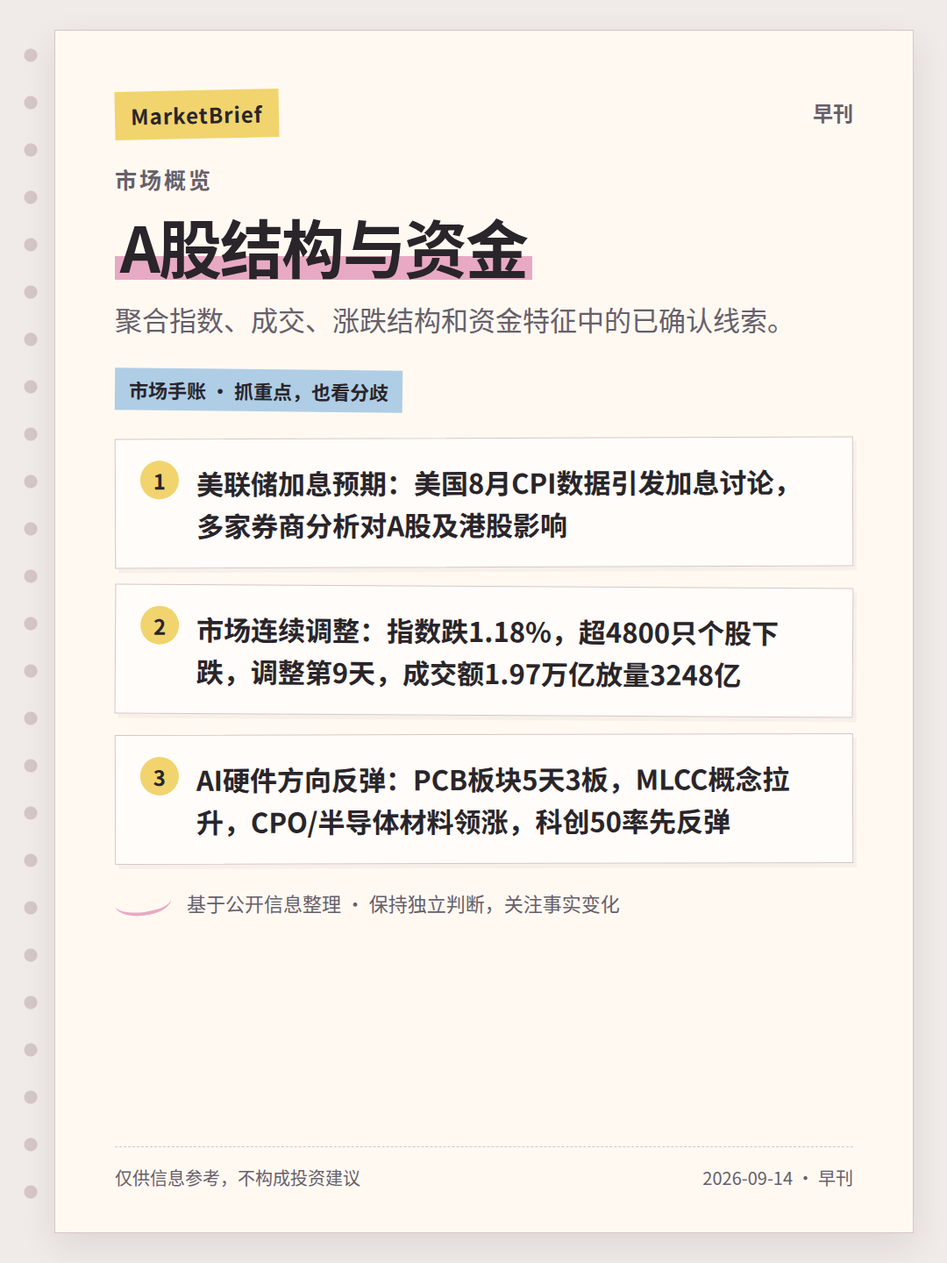
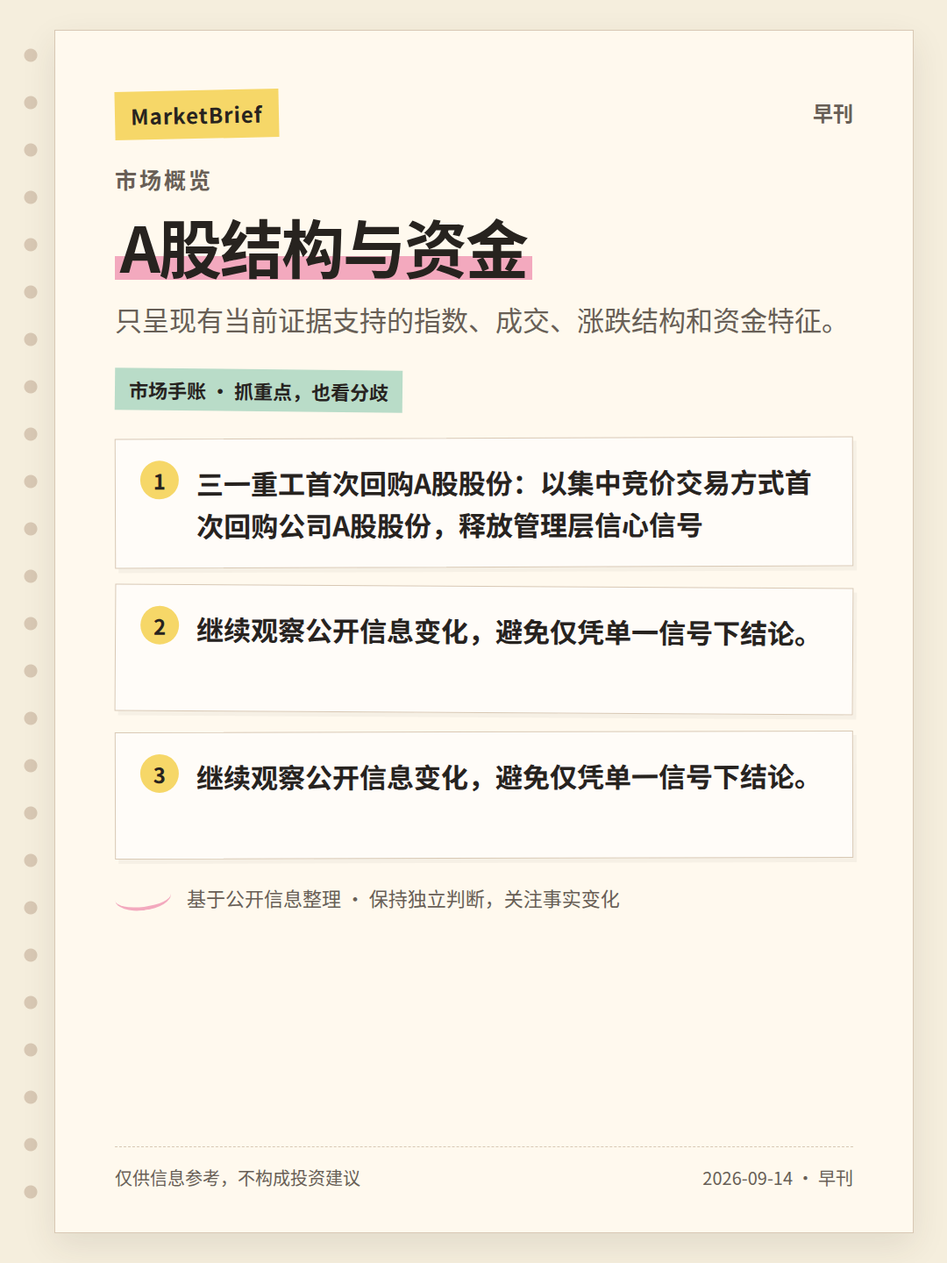
MarketBrief: publish dated edition

diff --git a/output/marketbrief/2026-09-14/am/2026-09-14-am-01.html b/output/marketbrief/2026-09-14/am/2026-09-14-am-01.html
@@ -1,33 +1,33 @@
 <!doctype html>
 <html lang="zh-CN"><head><meta charset="utf-8"><style>
-*{box-sizing:border-box}html,body{margin:0;width:1080px;height:1440px;background:#F0EAE8;color:#29252A;font-family:'Noto Sans CJK SC','Microsoft YaHei',sans-serif}
-body:before{content:'';position:absolute;left:24px;top:36px;bottom:36px;width:22px;background:radial-gradient(circle,#D5C6C7 0 7px,transparent 8px) center top/22px 54px repeat-y}
-main{position:relative;margin:34px 38px 34px 62px;width:980px;height:1372px;padding:68px 68px 52px;background:#FFF9F2;border:1px solid #D5C6C7;box-shadow:0 14px 36px rgba(58,47,39,.10);overflow:hidden}
+*{box-sizing:border-box}html,body{margin:0;width:1080px;height:1440px;background:#F5EEDD;color:#27231F;font-family:'Noto Sans CJK SC','Microsoft YaHei',sans-serif}
+body:before{content:'';position:absolute;left:24px;top:36px;bottom:36px;width:22px;background:radial-gradient(circle,#D8C8B4 0 7px,transparent 8px) center top/22px 54px repeat-y}
+main{position:relative;margin:34px 38px 34px 62px;width:980px;height:1372px;padding:68px 68px 52px;background:#FFF9EE;border:1px solid #D8C8B4;box-shadow:0 14px 36px rgba(58,47,39,.10);overflow:hidden}
 main:after{content:none}
 .top{position:relative;z-index:1;display:flex;justify-content:space-between;align-items:flex-start;margin-bottom:28px}
-.tape{display:inline-block;padding:10px 18px;background:#F1D46D;transform:rotate(-1.2deg);font-size:24px;font-weight:800;letter-spacing:1px}
-.edition{font-size:23px;font-weight:700;color:#66606A;padding-top:8px}
-.kicker{position:relative;z-index:1;font-size:25px;font-weight:800;letter-spacing:3px;color:#66606A;margin-bottom:18px}
+.tape{display:inline-block;padding:10px 18px;background:#F6D768;transform:rotate(-1.2deg);font-size:24px;font-weight:800;letter-spacing:1px}
+.edition{font-size:23px;font-weight:700;color:#685F56;padding-top:8px}
+.kicker{position:relative;z-index:1;font-size:25px;font-weight:800;letter-spacing:3px;color:#685F56;margin-bottom:18px}
 h1{position:relative;z-index:1;font-size:72px;line-height:1.12;margin:0 0 20px;font-weight:900;letter-spacing:-2px}
-h1 span{background:linear-gradient(transparent 62%,#E8A9C4 62% 88%,transparent 88%);padding:0 .08em}
-.sub{position:relative;z-index:1;font-size:31px;line-height:1.5;color:#66606A;margin-bottom:34px;max-width:850px}
-.ribbon{position:relative;z-index:1;display:inline-block;padding:8px 16px;margin-bottom:30px;background:#AFCDE5;font-size:22px;font-weight:700;transform:rotate(.6deg)}
+h1 span{background:linear-gradient(transparent 62%,#F3A9BE 62% 88%,transparent 88%);padding:0 .08em}
+.sub{position:relative;z-index:1;font-size:31px;line-height:1.5;color:#685F56;margin-bottom:34px;max-width:850px}
+.ribbon{position:relative;z-index:1;display:inline-block;padding:8px 16px;margin-bottom:30px;background:#B9DCC8;font-size:22px;font-weight:700;transform:rotate(.6deg)}
 .notes{position:relative;z-index:1;display:grid;gap:21px}
-.note{position:relative;min-height:145px;padding:26px 30px 24px 92px;background:rgba(255,255,255,.56);border:1px solid #D5C6C7;box-shadow:4px 5px 0 rgba(0,0,0,.035);transform:rotate(-.2deg)}
+.note{position:relative;min-height:145px;padding:26px 30px 24px 92px;background:rgba(255,255,255,.56);border:1px solid #D8C8B4;box-shadow:4px 5px 0 rgba(0,0,0,.035);transform:rotate(-.2deg)}
 .note:nth-child(2){transform:rotate(.35deg)}.note:nth-child(3){transform:rotate(-.15deg)}
-.note b{position:absolute;left:28px;top:24px;width:44px;height:44px;border-radius:50%;display:grid;place-items:center;background:#F1D46D;font-size:24px}
+.note b{position:absolute;left:28px;top:24px;width:44px;height:44px;border-radius:50%;display:grid;place-items:center;background:#F6D768;font-size:24px}
 .note p{margin:0;font-size:31px;line-height:1.55;font-weight:650}
-.margin{position:relative;z-index:1;margin-top:28px;display:flex;gap:18px;align-items:center;color:#66606A;font-size:22px}
-.sketch{width:64px;height:30px;border-bottom:4px solid #E8A9C4;border-radius:50%;transform:rotate(-7deg)}
-footer{position:absolute;z-index:1;left:68px;right:68px;bottom:48px;border-top:1px dashed #D5C6C7;padding-top:20px;display:flex;justify-content:space-between;gap:20px;color:#66606A;font-size:20px}
+.margin{position:relative;z-index:1;margin-top:28px;display:flex;gap:18px;align-items:center;color:#685F56;font-size:22px}
+.sketch{width:64px;height:30px;border-bottom:4px solid #F3A9BE;border-radius:50%;transform:rotate(-7deg)}
+footer{position:absolute;z-index:1;left:68px;right:68px;bottom:48px;border-top:1px dashed #D8C8B4;padding-top:20px;display:flex;justify-content:space-between;gap:20px;color:#685F56;font-size:20px}
 </style></head>
 <body><main>
 <div class="top"><span class="tape">MarketBrief</span><span class="edition">早刊</span></div>
 <div class="kicker">今日简报</div>
-<h1><span>AI算力与半导体产业链、美联储加息预期成</span></h1>
-<div class="sub">基于7份有效公开信息分析，当前焦点集中在AI算力与半导体产业链、美联储加息预期。以下内容保留事实、研究观点与市场情绪的边界，并对缺失数据保持空缺。</div>
+<h1><span>雪天盐业发行股份、沈鼓集团主板IP成焦点</span></h1>
+<div class="sub">早刊基于4份有效来源分析，当前重点为雪天盐业发行股份、沈鼓集团主板IP。仅保留时效合格的公开信息，事实、研究观点与市场情绪分开呈现。</div>
 <div class="ribbon">市场手账 · 抓重点，也看分歧</div>
-<div class="notes"><section class="note"><b>1</b><p>AI算力与半导体产业链：华为韬定律芯片落地、台积电营收新高、MLCC供给紧张、光博会供不应求、Rubin升级驱动硬件扩散、DeepSeek V4.1发布</p></section><section class="note"><b>2</b><p>美联储加息预期：美国8月CPI数据引发加息讨论，多家券商分析对A股及港股影响</p></section><section class="note"><b>3</b><p>霍尔木兹海峡船只遇袭，美伊外交前景渺茫：UKMTO确认袭击事件，地缘风险持续发酵</p></section></div>
+<div class="notes"><section class="note"><b>1</b><p>雪天盐业发行股份购买资产预案更正：发布更正后预案及更正提示公告，涉及发行股份及支付现金购买资产并募集配套资金暨关联交易</p></section><section class="note"><b>2</b><p>沈鼓集团主板IPO发行完成：首次公开发行股票并在主板上市发行结果公告及招股说明书提示性公告</p></section><section class="note"><b>3</b><p>鸿路钢构签订重大经营协议：公司签订重大经营协议，涉及业务扩张或订单获取</p></section></div>
 <div class="margin"><span class="sketch"></span><span>基于公开信息整理 · 保持独立判断，关注事实变化</span></div>
 <footer><span>仅供信息参考，不构成投资建议</span><span>2026-09-14 · 早刊</span></footer>
 </main></body></html>

diff --git a/output/marketbrief/2026-09-14/am/2026-09-14-am-05.html b/output/marketbrief/2026-09-14/am/2026-09-14-am-05.html
@@ -1,33 +1,33 @@
 <!doctype html>
 <html lang="zh-CN"><head><meta charset="utf-8"><style>
-*{box-sizing:border-box}html,body{margin:0;width:1080px;height:1440px;background:#F0EAE8;color:#29252A;font-family:'Noto Sans CJK SC','Microsoft YaHei',sans-serif}
-body:before{content:'';position:absolute;left:24px;top:36px;bottom:36px;width:22px;background:radial-gradient(circle,#D5C6C7 0 7px,transparent 8px) center top/22px 54px repeat-y}
-main{position:relative;margin:34px 38px 34px 62px;width:980px;height:1372px;padding:68px 68px 52px;background:#FFF9F2;border:1px solid #D5C6C7;box-shadow:0 14px 36px rgba(58,47,39,.10);overflow:hidden}
+*{box-sizing:border-box}html,body{margin:0;width:1080px;height:1440px;background:#F5EEDD;color:#27231F;font-family:'Noto Sans CJK SC','Microsoft YaHei',sans-serif}
+body:before{content:'';position:absolute;left:24px;top:36px;bottom:36px;width:22px;background:radial-gradient(circle,#D8C8B4 0 7px,transparent 8px) center top/22px 54px repeat-y}
+main{position:relative;margin:34px 38px 34px 62px;width:980px;height:1372px;padding:68px 68px 52px;background:#FFF9EE;border:1px solid #D8C8B4;box-shadow:0 14px 36px rgba(58,47,39,.10);overflow:hidden}
 main:after{content:none}
 .top{position:relative;z-index:1;display:flex;justify-content:space-between;align-items:flex-start;margin-bottom:28px}
-.tape{display:inline-block;padding:10px 18px;background:#F1D46D;transform:rotate(-1.2deg);font-size:24px;font-weight:800;letter-spacing:1px}
-.edition{font-size:23px;font-weight:700;color:#66606A;padding-top:8px}
-.kicker{position:relative;z-index:1;font-size:25px;font-weight:800;letter-spacing:3px;color:#66606A;margin-bottom:18px}
+.tape{display:inline-block;padding:10px 18px;background:#F6D768;transform:rotate(-1.2deg);font-size:24px;font-weight:800;letter-spacing:1px}
+.edition{font-size:23px;font-weight:700;color:#685F56;padding-top:8px}
+.kicker{position:relative;z-index:1;font-size:25px;font-weight:800;letter-spacing:3px;color:#685F56;margin-bottom:18px}
 h1{position:relative;z-index:1;font-size:72px;line-height:1.12;margin:0 0 20px;font-weight:900;letter-spacing:-2px}
-h1 span{background:linear-gradient(transparent 62%,#E8A9C4 62% 88%,transparent 88%);padding:0 .08em}
-.sub{position:relative;z-index:1;font-size:31px;line-height:1.5;color:#66606A;margin-bottom:34px;max-width:850px}
-.ribbon{position:relative;z-index:1;display:inline-block;padding:8px 16px;margin-bottom:30px;background:#AFCDE5;font-size:22px;font-weight:700;transform:rotate(.6deg)}
+h1 span{background:linear-gradient(transparent 62%,#F3A9BE 62% 88%,transparent 88%);padding:0 .08em}
+.sub{position:relative;z-index:1;font-size:31px;line-height:1.5;color:#685F56;margin-bottom:34px;max-width:850px}
+.ribbon{position:relative;z-index:1;display:inline-block;padding:8px 16px;margin-bottom:30px;background:#B9DCC8;font-size:22px;font-weight:700;transform:rotate(.6deg)}
 .notes{position:relative;z-index:1;display:grid;gap:21px}
-.note{position:relative;min-height:145px;padding:26px 30px 24px 92px;background:rgba(255,255,255,.56);border:1px solid #D5C6C7;box-shadow:4px 5px 0 rgba(0,0,0,.035);transform:rotate(-.2deg)}
+.note{position:relative;min-height:145px;padding:26px 30px 24px 92px;background:rgba(255,255,255,.56);border:1px solid #D8C8B4;box-shadow:4px 5px 0 rgba(0,0,0,.035);transform:rotate(-.2deg)}
 .note:nth-child(2){transform:rotate(.35deg)}.note:nth-child(3){transform:rotate(-.15deg)}
-.note b{position:absolute;left:28px;top:24px;width:44px;height:44px;border-radius:50%;display:grid;place-items:center;background:#F1D46D;font-size:24px}
+.note b{position:absolute;left:28px;top:24px;width:44px;height:44px;border-radius:50%;display:grid;place-items:center;background:#F6D768;font-size:24px}
 .note p{margin:0;font-size:31px;line-height:1.55;font-weight:650}
-.margin{position:relative;z-index:1;margin-top:28px;display:flex;gap:18px;align-items:center;color:#66606A;font-size:22px}
-.sketch{width:64px;height:30px;border-bottom:4px solid #E8A9C4;border-radius:50%;transform:rotate(-7deg)}
-footer{position:absolute;z-index:1;left:68px;right:68px;bottom:48px;border-top:1px dashed #D5C6C7;padding-top:20px;display:flex;justify-content:space-between;gap:20px;color:#66606A;font-size:20px}
+.margin{position:relative;z-index:1;margin-top:28px;display:flex;gap:18px;align-items:center;color:#685F56;font-size:22px}
+.sketch{width:64px;height:30px;border-bottom:4px solid #F3A9BE;border-radius:50%;transform:rotate(-7deg)}
+footer{position:absolute;z-index:1;left:68px;right:68px;bottom:48px;border-top:1px dashed #D8C8B4;padding-top:20px;display:flex;justify-content:space-between;gap:20px;color:#685F56;font-size:20px}
 </style></head>
 <body><main>
 <div class="top"><span class="tape">MarketBrief</span><span class="edition">早刊</span></div>
 <div class="kicker">事实分歧</div>
 <h1><span>事实、观点与情绪分开看</span></h1>
-<div class="sub">同一市场叙事中，事实锚、研究判断和市场情绪不应混为一谈。</div>
+<div class="sub">先看已确认事实，再看研究判断和市场情绪是否一致。</div>
 <div class="ribbon">市场手账 · 抓重点，也看分歧</div>
-<div class="notes"><section class="note"><b>1</b><p>股份回购：天安新材、三一重工、中炬高新、永茂泰等多家公司回购进展或首次回购</p></section><section class="note"><b>2</b><p>AI算力与半导体产业链：华为韬定律芯片落地、台积电营收新高、MLCC供给紧张、光博会供不应求、Rubin升级驱动硬件扩散、DeepSeek V4.1发布</p></section><section class="note"><b>3</b><p>AI算力产业链（光通信/电子布/MLCC）：FCC靴子落地、电子布提价加速、MLCC机构看多供需缺口、CIOE光博会开幕</p></section></div>
+<div class="notes"><section class="note"><b>1</b><p>雪天盐业发行股份购买资产预案更正：发布更正后预案及更正提示公告，涉及发行股份及支付现金购买资产并募集配套资金暨关联交易</p></section><section class="note"><b>2</b><p>AI产业链业绩放量：鹏鼎控股AI业务放量对冲端侧疲软、毛利率提升超5pct；广电运通AI机器人及算力业务前景可期；顺络电子TLVR电感与钽电容构筑AI增量；思特威&#x27;3+AI&#x27;驱动多元发展</p></section><section class="note"><b>3</b><p>CPO板块持续活跃：易中天相关个股大涨，CPO概念板块热度居前</p></section></div>
 <div class="margin"><span class="sketch"></span><span>基于公开信息整理 · 保持独立判断，关注事实变化</span></div>
 <footer><span>仅供信息参考，不构成投资建议</span><span>2026-09-14 · 早刊</span></footer>
 </main></body></html>

diff --git a/output/marketbrief/2026-09-14/am/2026-09-14-am-04.html b/output/marketbrief/2026-09-14/am/2026-09-14-am-04.html
@@ -1,33 +1,33 @@
 <!doctype html>
 <html lang="zh-CN"><head><meta charset="utf-8"><style>
-*{box-sizing:border-box}html,body{margin:0;width:1080px;height:1440px;background:#F0EAE8;color:#29252A;font-family:'Noto Sans CJK SC','Microsoft YaHei',sans-serif}
-body:before{content:'';position:absolute;left:24px;top:36px;bottom:36px;width:22px;background:radial-gradient(circle,#D5C6C7 0 7px,transparent 8px) center top/22px 54px repeat-y}
-main{position:relative;margin:34px 38px 34px 62px;width:980px;height:1372px;padding:68px 68px 52px;background:#FFF9F2;border:1px solid #D5C6C7;box-shadow:0 14px 36px rgba(58,47,39,.10);overflow:hidden}
+*{box-sizing:border-box}html,body{margin:0;width:1080px;height:1440px;background:#F5EEDD;color:#27231F;font-family:'Noto Sans CJK SC','Microsoft YaHei',sans-serif}
+body:before{content:'';position:absolute;left:24px;top:36px;bottom:36px;width:22px;background:radial-gradient(circle,#D8C8B4 0 7px,transparent 8px) center top/22px 54px repeat-y}
+main{position:relative;margin:34px 38px 34px 62px;width:980px;height:1372px;padding:68px 68px 52px;background:#FFF9EE;border:1px solid #D8C8B4;box-shadow:0 14px 36px rgba(58,47,39,.10);overflow:hidden}
 main:after{content:none}
 .top{position:relative;z-index:1;display:flex;justify-content:space-between;align-items:flex-start;margin-bottom:28px}
-.tape{display:inline-block;padding:10px 18px;background:#F1D46D;transform:rotate(-1.2deg);font-size:24px;font-weight:800;letter-spacing:1px}
-.edition{font-size:23px;font-weight:700;color:#66606A;padding-top:8px}
-.kicker{position:relative;z-index:1;font-size:25px;font-weight:800;letter-spacing:3px;color:#66606A;margin-bottom:18px}
+.tape{display:inline-block;padding:10px 18px;background:#F6D768;transform:rotate(-1.2deg);font-size:24px;font-weight:800;letter-spacing:1px}
+.edition{font-size:23px;font-weight:700;color:#685F56;padding-top:8px}
+.kicker{position:relative;z-index:1;font-size:25px;font-weight:800;letter-spacing:3px;color:#685F56;margin-bottom:18px}
 h1{position:relative;z-index:1;font-size:72px;line-height:1.12;margin:0 0 20px;font-weight:900;letter-spacing:-2px}
-h1 span{background:linear-gradient(transparent 62%,#E8A9C4 62% 88%,transparent 88%);padding:0 .08em}
-.sub{position:relative;z-index:1;font-size:31px;line-height:1.5;color:#66606A;margin-bottom:34px;max-width:850px}
-.ribbon{position:relative;z-index:1;display:inline-block;padding:8px 16px;margin-bottom:30px;background:#AFCDE5;font-size:22px;font-weight:700;transform:rotate(.6deg)}
+h1 span{background:linear-gradient(transparent 62%,#F3A9BE 62% 88%,transparent 88%);padding:0 .08em}
+.sub{position:relative;z-index:1;font-size:31px;line-height:1.5;color:#685F56;margin-bottom:34px;max-width:850px}
+.ribbon{position:relative;z-index:1;display:inline-block;padding:8px 16px;margin-bottom:30px;background:#B9DCC8;font-size:22px;font-weight:700;transform:rotate(.6deg)}
 .notes{position:relative;z-index:1;display:grid;gap:21px}
-.note{position:relative;min-height:145px;padding:26px 30px 24px 92px;background:rgba(255,255,255,.56);border:1px solid #D5C6C7;box-shadow:4px 5px 0 rgba(0,0,0,.035);transform:rotate(-.2deg)}
+.note{position:relative;min-height:145px;padding:26px 30px 24px 92px;background:rgba(255,255,255,.56);border:1px solid #D8C8B4;box-shadow:4px 5px 0 rgba(0,0,0,.035);transform:rotate(-.2deg)}
 .note:nth-child(2){transform:rotate(.35deg)}.note:nth-child(3){transform:rotate(-.15deg)}
-.note b{position:absolute;left:28px;top:24px;width:44px;height:44px;border-radius:50%;display:grid;place-items:center;background:#F1D46D;font-size:24px}
+.note b{position:absolute;left:28px;top:24px;width:44px;height:44px;border-radius:50%;display:grid;place-items:center;background:#F6D768;font-size:24px}
 .note p{margin:0;font-size:31px;line-height:1.55;font-weight:650}
-.margin{position:relative;z-index:1;margin-top:28px;display:flex;gap:18px;align-items:center;color:#66606A;font-size:22px}
-.sketch{width:64px;height:30px;border-bottom:4px solid #E8A9C4;border-radius:50%;transform:rotate(-7deg)}
-footer{position:absolute;z-index:1;left:68px;right:68px;bottom:48px;border-top:1px dashed #D5C6C7;padding-top:20px;display:flex;justify-content:space-between;gap:20px;color:#66606A;font-size:20px}
+.margin{position:relative;z-index:1;margin-top:28px;display:flex;gap:18px;align-items:center;color:#685F56;font-size:22px}
+.sketch{width:64px;height:30px;border-bottom:4px solid #F3A9BE;border-radius:50%;transform:rotate(-7deg)}
+footer{position:absolute;z-index:1;left:68px;right:68px;bottom:48px;border-top:1px dashed #D8C8B4;padding-top:20px;display:flex;justify-content:space-between;gap:20px;color:#685F56;font-size:20px}
 </style></head>
 <body><main>
 <div class="top"><span class="tape">MarketBrief</span><span class="edition">早刊</span></div>
 <div class="kicker">热点追踪</div>
-<h1><span>高权重线索集中</span></h1>
-<div class="sub">按来源分析中的重要性排序，不把热度直接等同于投资结论。</div>
+<h1><span>主线与事件交叉验证</span></h1>
+<div class="sub">优先采用官方与研究信息，社区热度只作为辅助信号。</div>
 <div class="ribbon">市场手账 · 抓重点，也看分歧</div>
-<div class="notes"><section class="note"><b>1</b><p>AI算力与半导体产业链：华为韬定律芯片落地、台积电营收新高、MLCC供给紧张、光博会供不应求、Rubin升级驱动硬件扩散、DeepSeek V4.1发布</p></section><section class="note"><b>2</b><p>霍尔木兹海峡船只遇袭，美伊外交前景渺茫：UKMTO确认袭击事件，地缘风险持续发酵</p></section><section class="note"><b>3</b><p>AI算力产业链（光通信/电子布/MLCC）：FCC靴子落地、电子布提价加速、MLCC机构看多供需缺口、CIOE光博会开幕</p></section></div>
+<div class="notes"><section class="note"><b>1</b><p>雪天盐业发行股份购买资产预案更正：发布更正后预案及更正提示公告，涉及发行股份及支付现金购买资产并募集配套资金暨关联交易</p></section><section class="note"><b>2</b><p>沈鼓集团主板IPO发行完成：首次公开发行股票并在主板上市发行结果公告及招股说明书提示性公告</p></section><section class="note"><b>3</b><p>鸿路钢构签订重大经营协议：公司签订重大经营协议，涉及业务扩张或订单获取</p></section></div>
 <div class="margin"><span class="sketch"></span><span>基于公开信息整理 · 保持独立判断，关注事实变化</span></div>
 <footer><span>仅供信息参考，不构成投资建议</span><span>2026-09-14 · 早刊</span></footer>
 </main></body></html>

diff --git a/output/marketbrief/2026-09-14/am/2026-09-14-am-03.html b/output/marketbrief/2026-09-14/am/2026-09-14-am-03.html
@@ -1,33 +1,33 @@
 <!doctype html>
 <html lang="zh-CN"><head><meta charset="utf-8"><style>
-*{box-sizing:border-box}html,body{margin:0;width:1080px;height:1440px;background:#F0EAE8;color:#29252A;font-family:'Noto Sans CJK SC','Microsoft YaHei',sans-serif}
-body:before{content:'';position:absolute;left:24px;top:36px;bottom:36px;width:22px;background:radial-gradient(circle,#D5C6C7 0 7px,transparent 8px) center top/22px 54px repeat-y}
-main{position:relative;margin:34px 38px 34px 62px;width:980px;height:1372px;padding:68px 68px 52px;background:#FFF9F2;border:1px solid #D5C6C7;box-shadow:0 14px 36px rgba(58,47,39,.10);overflow:hidden}
+*{box-sizing:border-box}html,body{margin:0;width:1080px;height:1440px;background:#F5EEDD;color:#27231F;font-family:'Noto Sans CJK SC','Microsoft YaHei',sans-serif}
+body:before{content:'';position:absolute;left:24px;top:36px;bottom:36px;width:22px;background:radial-gradient(circle,#D8C8B4 0 7px,transparent 8px) center top/22px 54px repeat-y}
+main{position:relative;margin:34px 38px 34px 62px;width:980px;height:1372px;padding:68px 68px 52px;background:#FFF9EE;border:1px solid #D8C8B4;box-shadow:0 14px 36px rgba(58,47,39,.10);overflow:hidden}
 main:after{content:none}
 .top{position:relative;z-index:1;display:flex;justify-content:space-between;align-items:flex-start;margin-bottom:28px}
-.tape{display:inline-block;padding:10px 18px;background:#F1D46D;transform:rotate(-1.2deg);font-size:24px;font-weight:800;letter-spacing:1px}
-.edition{font-size:23px;font-weight:700;color:#66606A;padding-top:8px}
-.kicker{position:relative;z-index:1;font-size:25px;font-weight:800;letter-spacing:3px;color:#66606A;margin-bottom:18px}
+.tape{display:inline-block;padding:10px 18px;background:#F6D768;transform:rotate(-1.2deg);font-size:24px;font-weight:800;letter-spacing:1px}
+.edition{font-size:23px;font-weight:700;color:#685F56;padding-top:8px}
+.kicker{position:relative;z-index:1;font-size:25px;font-weight:800;letter-spacing:3px;color:#685F56;margin-bottom:18px}
 h1{position:relative;z-index:1;font-size:72px;line-height:1.12;margin:0 0 20px;font-weight:900;letter-spacing:-2px}
-h1 span{background:linear-gradient(transparent 62%,#E8A9C4 62% 88%,transparent 88%);padding:0 .08em}
-.sub{position:relative;z-index:1;font-size:31px;line-height:1.5;color:#66606A;margin-bottom:34px;max-width:850px}
-.ribbon{position:relative;z-index:1;display:inline-block;padding:8px 16px;margin-bottom:30px;background:#AFCDE5;font-size:22px;font-weight:700;transform:rotate(.6deg)}
+h1 span{background:linear-gradient(transparent 62%,#F3A9BE 62% 88%,transparent 88%);padding:0 .08em}
+.sub{position:relative;z-index:1;font-size:31px;line-height:1.5;color:#685F56;margin-bottom:34px;max-width:850px}
+.ribbon{position:relative;z-index:1;display:inline-block;padding:8px 16px;margin-bottom:30px;background:#B9DCC8;font-size:22px;font-weight:700;transform:rotate(.6deg)}
 .notes{position:relative;z-index:1;display:grid;gap:21px}
-.note{position:relative;min-height:145px;padding:26px 30px 24px 92px;background:rgba(255,255,255,.56);border:1px solid #D5C6C7;box-shadow:4px 5px 0 rgba(0,0,0,.035);transform:rotate(-.2deg)}
+.note{position:relative;min-height:145px;padding:26px 30px 24px 92px;background:rgba(255,255,255,.56);border:1px solid #D8C8B4;box-shadow:4px 5px 0 rgba(0,0,0,.035);transform:rotate(-.2deg)}
 .note:nth-child(2){transform:rotate(.35deg)}.note:nth-child(3){transform:rotate(-.15deg)}
-.note b{position:absolute;left:28px;top:24px;width:44px;height:44px;border-radius:50%;display:grid;place-items:center;background:#F1D46D;font-size:24px}
+.note b{position:absolute;left:28px;top:24px;width:44px;height:44px;border-radius:50%;display:grid;place-items:center;background:#F6D768;font-size:24px}
 .note p{margin:0;font-size:31px;line-height:1.55;font-weight:650}
-.margin{position:relative;z-index:1;margin-top:28px;display:flex;gap:18px;align-items:center;color:#66606A;font-size:22px}
-.sketch{width:64px;height:30px;border-bottom:4px solid #E8A9C4;border-radius:50%;transform:rotate(-7deg)}
-footer{position:absolute;z-index:1;left:68px;right:68px;bottom:48px;border-top:1px dashed #D5C6C7;padding-top:20px;display:flex;justify-content:space-between;gap:20px;color:#66606A;font-size:20px}
+.margin{position:relative;z-index:1;margin-top:28px;display:flex;gap:18px;align-items:center;color:#685F56;font-size:22px}
+.sketch{width:64px;height:30px;border-bottom:4px solid #F3A9BE;border-radius:50%;transform:rotate(-7deg)}
+footer{position:absolute;z-index:1;left:68px;right:68px;bottom:48px;border-top:1px dashed #D8C8B4;padding-top:20px;display:flex;justify-content:space-between;gap:20px;color:#685F56;font-size:20px}
 </style></head>
 <body><main>
 <div class="top"><span class="tape">MarketBrief</span><span class="edition">早刊</span></div>
 <div class="kicker">市场概览</div>
 <h1><span>A股结构与资金</span></h1>
-<div class="sub">聚合指数、成交、涨跌结构和资金特征中的已确认线索。</div>
+<div class="sub">只呈现有当前证据支持的指数、成交、涨跌结构和资金特征。</div>
 <div class="ribbon">市场手账 · 抓重点，也看分歧</div>
-<div class="notes"><section class="note"><b>1</b><p>美联储加息预期：美国8月CPI数据引发加息讨论，多家券商分析对A股及港股影响</p></section><section class="note"><b>2</b><p>市场连续调整：指数跌1.18%，超4800只个股下跌，调整第9天，成交额1.97万亿放量3248亿</p></section><section class="note"><b>3</b><p>AI硬件方向反弹：PCB板块5天3板，MLCC概念拉升，CPO/半导体材料领涨，科创50率先反弹</p></section></div>
+<div class="notes"><section class="note"><b>1</b><p>三一重工首次回购A股股份：以集中竞价交易方式首次回购公司A股股份，释放管理层信心信号</p></section><section class="note"><b>2</b><p>继续观察公开信息变化，避免仅凭单一信号下结论。</p></section><section class="note"><b>3</b><p>继续观察公开信息变化，避免仅凭单一信号下结论。</p></section></div>
 <div class="margin"><span class="sketch"></span><span>基于公开信息整理 · 保持独立判断，关注事实变化</span></div>
 <footer><span>仅供信息参考，不构成投资建议</span><span>2026-09-14 · 早刊</span></footer>
 </main></body></html>

diff --git a/output/marketbrief/2026-09-14/am/2026-09-14-am-06.html b/output/marketbrief/2026-09-14/am/2026-09-14-am-06.html
@@ -1,33 +1,33 @@
 <!doctype html>
 <html lang="zh-CN"><head><meta charset="utf-8"><style>
-*{box-sizing:border-box}html,body{margin:0;width:1080px;height:1440px;background:#F0EAE8;color:#29252A;font-family:'Noto Sans CJK SC','Microsoft YaHei',sans-serif}
-body:before{content:'';position:absolute;left:24px;top:36px;bottom:36px;width:22px;background:radial-gradient(circle,#D5C6C7 0 7px,transparent 8px) center top/22px 54px repeat-y}
-main{position:relative;margin:34px 38px 34px 62px;width:980px;height:1372px;padding:68px 68px 52px;background:#FFF9F2;border:1px solid #D5C6C7;box-shadow:0 14px 36px rgba(58,47,39,.10);overflow:hidden}
+*{box-sizing:border-box}html,body{margin:0;width:1080px;height:1440px;background:#F5EEDD;color:#27231F;font-family:'Noto Sans CJK SC','Microsoft YaHei',sans-serif}
+body:before{content:'';position:absolute;left:24px;top:36px;bottom:36px;width:22px;background:radial-gradient(circle,#D8C8B4 0 7px,transparent 8px) center top/22px 54px repeat-y}
+main{position:relative;margin:34px 38px 34px 62px;width:980px;height:1372px;padding:68px 68px 52px;background:#FFF9EE;border:1px solid #D8C8B4;box-shadow:0 14px 36px rgba(58,47,39,.10);overflow:hidden}
 main:after{content:none}
 .top{position:relative;z-index:1;display:flex;justify-content:space-between;align-items:flex-start;margin-bottom:28px}
-.tape{display:inline-block;padding:10px 18px;background:#F1D46D;transform:rotate(-1.2deg);font-size:24px;font-weight:800;letter-spacing:1px}
-.edition{font-size:23px;font-weight:700;color:#66606A;padding-top:8px}
-.kicker{position:relative;z-index:1;font-size:25px;font-weight:800;letter-spacing:3px;color:#66606A;margin-bottom:18px}
+.tape{display:inline-block;padding:10px 18px;background:#F6D768;transform:rotate(-1.2deg);font-size:24px;font-weight:800;letter-spacing:1px}
+.edition{font-size:23px;font-weight:700;color:#685F56;padding-top:8px}
+.kicker{position:relative;z-index:1;font-size:25px;font-weight:800;letter-spacing:3px;color:#685F56;margin-bottom:18px}
 h1{position:relative;z-index:1;font-size:72px;line-height:1.12;margin:0 0 20px;font-weight:900;letter-spacing:-2px}
-h1 span{background:linear-gradient(transparent 62%,#E8A9C4 62% 88%,transparent 88%);padding:0 .08em}
-.sub{position:relative;z-index:1;font-size:31px;line-height:1.5;color:#66606A;margin-bottom:34px;max-width:850px}
-.ribbon{position:relative;z-index:1;display:inline-block;padding:8px 16px;margin-bottom:30px;background:#AFCDE5;font-size:22px;font-weight:700;transform:rotate(.6deg)}
+h1 span{background:linear-gradient(transparent 62%,#F3A9BE 62% 88%,transparent 88%);padding:0 .08em}
+.sub{position:relative;z-index:1;font-size:31px;line-height:1.5;color:#685F56;margin-bottom:34px;max-width:850px}
+.ribbon{position:relative;z-index:1;display:inline-block;padding:8px 16px;margin-bottom:30px;background:#B9DCC8;font-size:22px;font-weight:700;transform:rotate(.6deg)}
 .notes{position:relative;z-index:1;display:grid;gap:21px}
-.note{position:relative;min-height:145px;padding:26px 30px 24px 92px;background:rgba(255,255,255,.56);border:1px solid #D5C6C7;box-shadow:4px 5px 0 rgba(0,0,0,.035);transform:rotate(-.2deg)}
+.note{position:relative;min-height:145px;padding:26px 30px 24px 92px;background:rgba(255,255,255,.56);border:1px solid #D8C8B4;box-shadow:4px 5px 0 rgba(0,0,0,.035);transform:rotate(-.2deg)}
 .note:nth-child(2){transform:rotate(.35deg)}.note:nth-child(3){transform:rotate(-.15deg)}
-.note b{position:absolute;left:28px;top:24px;width:44px;height:44px;border-radius:50%;display:grid;place-items:center;background:#F1D46D;font-size:24px}
+.note b{position:absolute;left:28px;top:24px;width:44px;height:44px;border-radius:50%;display:grid;place-items:center;background:#F6D768;font-size:24px}
 .note p{margin:0;font-size:31px;line-height:1.55;font-weight:650}
-.margin{position:relative;z-index:1;margin-top:28px;display:flex;gap:18px;align-items:center;color:#66606A;font-size:22px}
-.sketch{width:64px;height:30px;border-bottom:4px solid #E8A9C4;border-radius:50%;transform:rotate(-7deg)}
-footer{position:absolute;z-index:1;left:68px;right:68px;bottom:48px;border-top:1px dashed #D5C6C7;padding-top:20px;display:flex;justify-content:space-between;gap:20px;color:#66606A;font-size:20px}
+.margin{position:relative;z-index:1;margin-top:28px;display:flex;gap:18px;align-items:center;color:#685F56;font-size:22px}
+.sketch{width:64px;height:30px;border-bottom:4px solid #F3A9BE;border-radius:50%;transform:rotate(-7deg)}
+footer{position:absolute;z-index:1;left:68px;right:68px;bottom:48px;border-top:1px dashed #D8C8B4;padding-top:20px;display:flex;justify-content:space-between;gap:20px;color:#685F56;font-size:20px}
 </style></head>
 <body><main>
 <div class="top"><span class="tape">MarketBrief</span><span class="edition">早刊</span></div>
 <div class="kicker">风险提示</div>
 <h1><span>后续变量仍需确认</span></h1>
-<div class="sub">风险项只来自已有来源分析与其明确限制，不额外推演。</div>
+<div class="sub">只保留来源自身限制和当前证据中的风险项，不额外推演。</div>
 <div class="ribbon">市场手账 · 抓重点，也看分歧</div>
-<div class="notes"><section class="note"><b>1</b><p>社区内容含大量个股推荐与情绪化表达，部分帖子疑似软文或托，不可作为投资决策依据</p></section><section class="note"><b>2</b><p>热帖时间跨度从2023年7月至2024年7月，时效性不一，需结合当前市场验证</p></section><section class="note"><b>3</b><p>用户评论中负面反馈较多（如称软文、垃圾股），反映社区信任度低</p></section></div>
+<div class="notes"><section class="note"><b>1</b><p>部分社区信息存在时效性不足，过期内容已从当前证据中剔除。</p></section><section class="note"><b>2</b><p>页面内容为实时行情数据，无独立发布日期，仅可作为市场情绪参考</p></section><section class="note"><b>3</b><p>社区来源，非官方事实锚，不可作为事实依据</p></section></div>
 <div class="margin"><span class="sketch"></span><span>基于公开信息整理 · 保持独立判断，关注事实变化</span></div>
 <footer><span>仅供信息参考，不构成投资建议</span><span>2026-09-14 · 早刊</span></footer>
 </main></body></html>

diff --git a/output/marketbrief/2026-09-14/am/2026-09-14-am-02.html b/output/marketbrief/2026-09-14/am/2026-09-14-am-02.html
@@ -1,33 +1,33 @@
 <!doctype html>
 <html lang="zh-CN"><head><meta charset="utf-8"><style>
-*{box-sizing:border-box}html,body{margin:0;width:1080px;height:1440px;background:#F0EAE8;color:#29252A;font-family:'Noto Sans CJK SC','Microsoft YaHei',sans-serif}
-body:before{content:'';position:absolute;left:24px;top:36px;bottom:36px;width:22px;background:radial-gradient(circle,#D5C6C7 0 7px,transparent 8px) center top/22px 54px repeat-y}
-main{position:relative;margin:34px 38px 34px 62px;width:980px;height:1372px;padding:68px 68px 52px;background:#FFF9F2;border:1px solid #D5C6C7;box-shadow:0 14px 36px rgba(58,47,39,.10);overflow:hidden}
+*{box-sizing:border-box}html,body{margin:0;width:1080px;height:1440px;background:#F5EEDD;color:#27231F;font-family:'Noto Sans CJK SC','Microsoft YaHei',sans-serif}
+body:before{content:'';position:absolute;left:24px;top:36px;bottom:36px;width:22px;background:radial-gradient(circle,#D8C8B4 0 7px,transparent 8px) center top/22px 54px repeat-y}
+main{position:relative;margin:34px 38px 34px 62px;width:980px;height:1372px;padding:68px 68px 52px;background:#FFF9EE;border:1px solid #D8C8B4;box-shadow:0 14px 36px rgba(58,47,39,.10);overflow:hidden}
 main:after{content:none}
 .top{position:relative;z-index:1;display:flex;justify-content:space-between;align-items:flex-start;margin-bottom:28px}
-.tape{display:inline-block;padding:10px 18px;background:#F1D46D;transform:rotate(-1.2deg);font-size:24px;font-weight:800;letter-spacing:1px}
-.edition{font-size:23px;font-weight:700;color:#66606A;padding-top:8px}
-.kicker{position:relative;z-index:1;font-size:25px;font-weight:800;letter-spacing:3px;color:#66606A;margin-bottom:18px}
+.tape{display:inline-block;padding:10px 18px;background:#F6D768;transform:rotate(-1.2deg);font-size:24px;font-weight:800;letter-spacing:1px}
+.edition{font-size:23px;font-weight:700;color:#685F56;padding-top:8px}
+.kicker{position:relative;z-index:1;font-size:25px;font-weight:800;letter-spacing:3px;color:#685F56;margin-bottom:18px}
 h1{position:relative;z-index:1;font-size:72px;line-height:1.12;margin:0 0 20px;font-weight:900;letter-spacing:-2px}
-h1 span{background:linear-gradient(transparent 62%,#E8A9C4 62% 88%,transparent 88%);padding:0 .08em}
-.sub{position:relative;z-index:1;font-size:31px;line-height:1.5;color:#66606A;margin-bottom:34px;max-width:850px}
-.ribbon{position:relative;z-index:1;display:inline-block;padding:8px 16px;margin-bottom:30px;background:#AFCDE5;font-size:22px;font-weight:700;transform:rotate(.6deg)}
+h1 span{background:linear-gradient(transparent 62%,#F3A9BE 62% 88%,transparent 88%);padding:0 .08em}
+.sub{position:relative;z-index:1;font-size:31px;line-height:1.5;color:#685F56;margin-bottom:34px;max-width:850px}
+.ribbon{position:relative;z-index:1;display:inline-block;padding:8px 16px;margin-bottom:30px;background:#B9DCC8;font-size:22px;font-weight:700;transform:rotate(.6deg)}
 .notes{position:relative;z-index:1;display:grid;gap:21px}
-.note{position:relative;min-height:145px;padding:26px 30px 24px 92px;background:rgba(255,255,255,.56);border:1px solid #D5C6C7;box-shadow:4px 5px 0 rgba(0,0,0,.035);transform:rotate(-.2deg)}
+.note{position:relative;min-height:145px;padding:26px 30px 24px 92px;background:rgba(255,255,255,.56);border:1px solid #D8C8B4;box-shadow:4px 5px 0 rgba(0,0,0,.035);transform:rotate(-.2deg)}
 .note:nth-child(2){transform:rotate(.35deg)}.note:nth-child(3){transform:rotate(-.15deg)}
-.note b{position:absolute;left:28px;top:24px;width:44px;height:44px;border-radius:50%;display:grid;place-items:center;background:#F1D46D;font-size:24px}
+.note b{position:absolute;left:28px;top:24px;width:44px;height:44px;border-radius:50%;display:grid;place-items:center;background:#F6D768;font-size:24px}
 .note p{margin:0;font-size:31px;line-height:1.55;font-weight:650}
-.margin{position:relative;z-index:1;margin-top:28px;display:flex;gap:18px;align-items:center;color:#66606A;font-size:22px}
-.sketch{width:64px;height:30px;border-bottom:4px solid #E8A9C4;border-radius:50%;transform:rotate(-7deg)}
-footer{position:absolute;z-index:1;left:68px;right:68px;bottom:48px;border-top:1px dashed #D5C6C7;padding-top:20px;display:flex;justify-content:space-between;gap:20px;color:#66606A;font-size:20px}
+.margin{position:relative;z-index:1;margin-top:28px;display:flex;gap:18px;align-items:center;color:#685F56;font-size:22px}
+.sketch{width:64px;height:30px;border-bottom:4px solid #F3A9BE;border-radius:50%;transform:rotate(-7deg)}
+footer{position:absolute;z-index:1;left:68px;right:68px;bottom:48px;border-top:1px dashed #D8C8B4;padding-top:20px;display:flex;justify-content:space-between;gap:20px;color:#685F56;font-size:20px}
 </style></head>
 <body><main>
 <div class="top"><span class="tape">MarketBrief</span><span class="edition">早刊</span></div>
 <div class="kicker">全球市场</div>
 <h1><span>隔夜外部变量</span></h1>
-<div class="sub">只保留已有公开信息支持的海外市场与宏观线索。</div>
+<div class="sub">当前来源未形成足够清晰的外盘事实，不补写缺失行情数据。</div>
 <div class="ribbon">市场手账 · 抓重点，也看分歧</div>
-<div class="notes"><section class="note"><b>1</b><p>美联储加息预期：美国8月CPI数据引发加息讨论，多家券商分析对A股及港股影响</p></section><section class="note"><b>2</b><p>美联储CPI与加息预期：今晚CPI数据公布为加息最后一块拼图，加息落地后短期无估值压制，市场迎修复窗口</p></section><section class="note"><b>3</b><p>道指涨500点终结四连跌：油价回落+通胀报告被市场消化，风险偏好回升</p></section></div>
+<div class="notes"><section class="note"><b>1</b><p>继续观察公开信息变化，避免仅凭单一信号下结论。</p></section><section class="note"><b>2</b><p>继续观察公开信息变化，避免仅凭单一信号下结论。</p></section><section class="note"><b>3</b><p>继续观察公开信息变化，避免仅凭单一信号下结论。</p></section></div>
 <div class="margin"><span class="sketch"></span><span>基于公开信息整理 · 保持独立判断，关注事实变化</span></div>
 <footer><span>仅供信息参考，不构成投资建议</span><span>2026-09-14 · 早刊</span></footer>
 </main></body></html>

diff --git a/output/marketbrief/2026-09-14/am/brief.md b/output/marketbrief/2026-09-14/am/brief.md
@@ -1,46 +1,41 @@
-# AI算力与半导体产业链、美联储加息预期成
+# 雪天盐业发行股份、沈鼓集团主板IP成焦点
 
-> 基于7份有效公开信息分析，当前焦点集中在AI算力与半导体产业链、美联储加息预期。以下内容保留事实、研究观点与市场情绪的边界，并对缺失数据保持空缺。
+> 早刊基于4份有效来源分析，当前重点为雪天盐业发行股份、沈鼓集团主板IP。仅保留时效合格的公开信息，事实、研究观点与市场情绪分开呈现。
 
 ## 隔夜外部变量
 
-只保留已有公开信息支持的海外市场与宏观线索。
+当前来源未形成足够清晰的外盘事实，不补写缺失行情数据。
 
-- 美联储加息预期：美国8月CPI数据引发加息讨论，多家券商分析对A股及港股影响
-- 美联储CPI与加息预期：今晚CPI数据公布为加息最后一块拼图，加息落地后短期无估值压制，市场迎修复窗口
-- 道指涨500点终结四连跌：油价回落+通胀报告被市场消化，风险偏好回升
 
 ## A股结构与资金
 
-聚合指数、成交、涨跌结构和资金特征中的已确认线索。
+只呈现有当前证据支持的指数、成交、涨跌结构和资金特征。
 
-- 美联储加息预期：美国8月CPI数据引发加息讨论，多家券商分析对A股及港股影响
-- 市场连续调整：指数跌1.18%，超4800只个股下跌，调整第9天，成交额1.97万亿放量3248亿
-- AI硬件方向反弹：PCB板块5天3板，MLCC概念拉升，CPO/半导体材料领涨，科创50率先反弹
+- 三一重工首次回购A股股份：以集中竞价交易方式首次回购公司A股股份，释放管理层信心信号
 
-## 高权重线索集中
+## 主线与事件交叉验证
 
-按来源分析中的重要性排序，不把热度直接等同于投资结论。
+优先采用官方与研究信息，社区热度只作为辅助信号。
 
-- AI算力与半导体产业链：华为韬定律芯片落地、台积电营收新高、MLCC供给紧张、光博会供不应求、Rubin升级驱动硬件扩散、DeepSeek V4.1发布
-- 霍尔木兹海峡船只遇袭，美伊外交前景渺茫：UKMTO确认袭击事件，地缘风险持续发酵
-- AI算力产业链（光通信/电子布/MLCC）：FCC靴子落地、电子布提价加速、MLCC机构看多供需缺口、CIOE光博会开幕
+- 雪天盐业发行股份购买资产预案更正：发布更正后预案及更正提示公告，涉及发行股份及支付现金购买资产并募集配套资金暨关联交易
+- 沈鼓集团主板IPO发行完成：首次公开发行股票并在主板上市发行结果公告及招股说明书提示性公告
+- 鸿路钢构签订重大经营协议：公司签订重大经营协议，涉及业务扩张或订单获取
 
 ## 事实、观点与情绪分开看
 
-同一市场叙事中，事实锚、研究判断和市场情绪不应混为一谈。
+先看已确认事实，再看研究判断和市场情绪是否一致。
 
-- 股份回购：天安新材、三一重工、中炬高新、永茂泰等多家公司回购进展或首次回购
-- AI算力与半导体产业链：华为韬定律芯片落地、台积电营收新高、MLCC供给紧张、光博会供不应求、Rubin升级驱动硬件扩散、DeepSeek V4.1发布
-- AI算力产业链（光通信/电子布/MLCC）：FCC靴子落地、电子布提价加速、MLCC机构看多供需缺口、CIOE光博会开幕
+- 雪天盐业发行股份购买资产预案更正：发布更正后预案及更正提示公告，涉及发行股份及支付现金购买资产并募集配套资金暨关联交易
+- AI产业链业绩放量：鹏鼎控股AI业务放量对冲端侧疲软、毛利率提升超5pct；广电运通AI机器人及算力业务前景可期；顺络电子TLVR电感与钽电容构筑AI增量；思特威'3+AI'驱动多元发展
+- CPO板块持续活跃：易中天相关个股大涨，CPO概念板块热度居前
 
 ## 后续变量仍需确认
 
-风险项只来自已有来源分析与其明确限制，不额外推演。
+只保留来源自身限制和当前证据中的风险项，不额外推演。
 
-- 社区内容含大量个股推荐与情绪化表达，部分帖子疑似软文或托，不可作为投资决策依据
-- 热帖时间跨度从2023年7月至2024年7月，时效性不一，需结合当前市场验证
-- 用户评论中负面反馈较多（如称软文、垃圾股），反映社区信任度低
+- 部分社区信息存在时效性不足，过期内容已从当前证据中剔除。
+- 页面内容为实时行情数据，无独立发布日期，仅可作为市场情绪参考
+- 社区来源，非官方事实锚，不可作为事实依据
 
 ## 信息口径
 
@@ -51,5 +46,5 @@
 本文仅作公开信息整理与讨论，不构成任何投资建议。
 
 刊期：2026-09-14 早刊  
-生成时间：2026-09-14T02:18:20+08:00  
-模型：`SenseNova` · 调用 7 次 · Token 24350
+生成时间：2026-09-14T02:43:44+08:00  
+模型：`SenseNova` · 调用 4 次 · Token 14805
